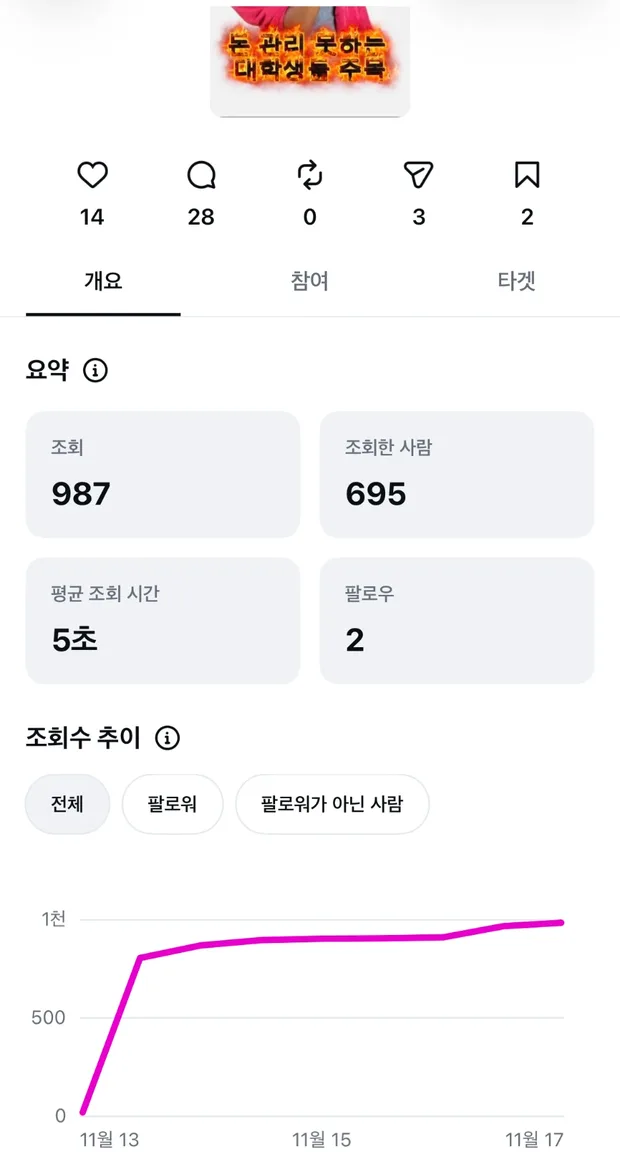
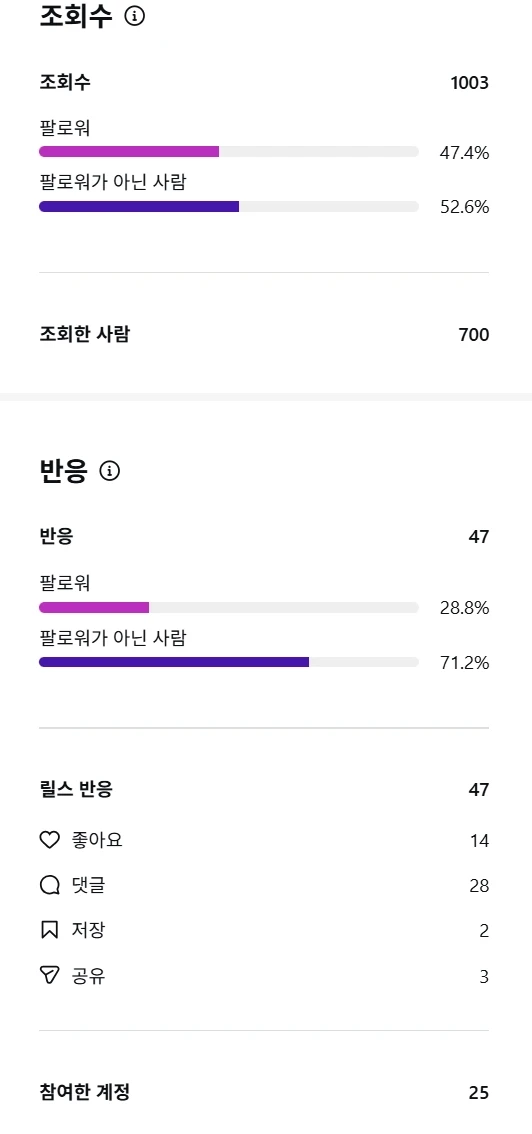
[DOCS] 발표 자료 홍보 결과를 11/24 인사이트로 바꾸고, 릴스·스레드·디스콰이엇 실제 화면을 넣는다. 사이트 방문·로그인 숫자는 뺀다 -재훈

diff --git a/frontend/public/ppt/index.html b/frontend/public/ppt/index.html
@@ -281,7 +281,7 @@ ul.pts li::before{content:"";flex:none;width:12px;height:12px;border-radius:50%;
     <div class="num">3~4</div><div>핵심 MVP 기능 개발</div><div>소비, 목표, 투자, AI 코치 화면과 API 구현</div><div><span class="pill ok">완료</span></div>
     <div class="num">5~6</div><div>AI 금융 코칭 고도화, 안전 문구 설계</div><div>AI 답변 연결, 숫자·투자 권유 검사, 개인정보 가림, 횟수 제한</div><div><span class="pill ok">완료</span> <span class="why">문구 → 코드 검사로 강화</span></div>
     <div class="num">7~8</div><div>PWA 배포, 초기 사용자 테스트</div><div>11/10 mywave.day 공개, 152개 항목 점검, 테스터 피드백 반영</div><div><span class="pill ok">완료</span> <span class="why">공개 일정 지연 <span class="pill chk">확인</span></span></div>
-    <div class="num">9~10</div><div>1차 홍보, 사용자 확보 (목표 1,000명)</div><div>릴스 조회 987, 스레드 조회 46, 사이트 방문 약 78명, 로그인 7명</div><div><span class="pill no">미달</span> <span class="why">홍보 기간 부족, 가입 전환 낮음 <span class="pill chk">확인</span></span></div>
+    <div class="num">9~10</div><div>1차 홍보, 사용자 확보 (목표 1,000명)</div><div>릴스 조회 1,003 (700명), 스레드 조회 181 (138명), 디스콰이엇 프로덕트 등록</div><div><span class="pill no">미달</span> <span class="why">홍보 기간 부족</span></div>
     <div class="num">11~12</div><div>텀블벅 펀딩 준비, 수익화 검증</div><div>진행하지 않음. 익명 설문으로 사용자 의견 수집</div><div><span class="pill no">변경</span> <span class="why">지도교수 의견 반영 <span class="pill chk">확인</span></span></div>
     <div class="num">13~14</div><div>사용자 피드백 기반 기능 개선</div><div>설문 운영(11/16~), 로그인 전 소개 보기, 첫 사용 안내 추가</div><div><span class="pill mid">진행 중</span></div>
     <div class="num">15~16</div><div>최종 성과 분석, 발표</div><div>최종 발표, 결과 보고서 작성</div><div><span class="pill mid">진행 중</span></div>
@@ -311,31 +311,30 @@ ul.pts li::before{content:"";flex:none;width:12px;height:12px;border-radius:50%;
   </div>
 </section>
 
-<section class="slide" data-t="55" data-pose="surprise" data-note="홍보 결과. 왼쪽은 실제 인사이트 화면, 오른쪽은 같은 숫자. 릴스는 조회 987회였지만 평균 조회 시간 5초. 스레드는 링크 클릭 0회. 사이트 방문자 중 로그인한 사람은 약 9%. 조회는 나왔지만 가입으로 이어지지 않았다고 정리.">
+<section class="slide" data-t="55" data-pose="surprise" data-note="홍보 결과. 왼쪽 세 장은 실제 인사이트 화면과 실제로 올린 글. 릴스는 조회 1,003회, 700명이 봤고 댓글이 28개. 스레드는 181회 조회됐는데 본 사람의 60%가 25~34세였고 대학생 나이대(18~24세)는 6%였음. 디스콰이엇에는 프로덕트 승인을 받아 소개 글을 올림.">
   <div class="eb in">09</div>
   <h2 class="in" style="--i:1;margin-bottom:10px">홍보 결과</h2>
-  <div class="cols" style="grid-template-columns:206px 206px 1fr;gap:18px;align-items:start">
-    <div class="ph in" style="--i:2"><div class="shot" style="width:200px;height:376px"><img src="img/shot-reel-insight.webp" alt="인스타그램 릴스 인사이트 실제 화면. 조회 987, 조회한 사람 695, 평균 조회 시간 5초, 팔로우 2."></div><span class="real">릴스 인사이트 · 실제 화면</span></div>
-    <div class="ph in" style="--i:3"><div class="shot" style="width:200px;height:376px"><img src="img/shot-thread-insight.webp" alt="스레드 게시물 인사이트 실제 화면. 조회수 46, 조회한 사람 36, 프로필 방문 0, 링크 클릭 0."></div><span class="real">스레드 인사이트 · 실제 화면</span></div>
-    <div class="glass in" style="--i:4;padding:14px 20px;display:flex;flex-direction:column;gap:8px">
-      <h3 style="font-size:21px">인스타그램 릴스 <span class="small" style="font-size:15px">11/13 게시, 평균 조회 시간 5초</span></h3>
-      <div class="fun tight"><div class="frow"><span>조회</span><div class="bar"><i data-w="100"></i></div><b data-count="987">987</b></div>
-      <div class="frow"><span>조회한 사람</span><div class="bar"><i data-w="70.4"></i></div><b data-count="695">695</b></div>
-      <div class="frow"><span>반응</span><div class="bar"><i data-w="4.8"></i></div><b>47</b></div>
-      <div class="frow"><span>팔로우</span><div class="bar"><i class="warn" data-w="0.2"></i></div><b>2</b></div></div>
-      <h3 style="font-size:21px;margin-top:4px">스레드 <span class="small" style="font-size:15px">프로필 방문 0, 팔로우 0</span></h3>
-      <div class="fun tight"><div class="frow"><span>조회</span><div class="bar"><i data-w="100"></i></div><b>46</b></div>
-      <div class="frow"><span>조회한 사람</span><div class="bar"><i data-w="78.3"></i></div><b>36</b></div>
-      <div class="frow"><span>링크 클릭</span><div class="bar"><i class="warn" data-w="0"></i></div><b>0</b></div></div>
-      <h3 style="font-size:21px;margin-top:4px">사이트 mywave.day <span class="small" style="font-size:15px">공개 후 5일</span> <span class="pill chk">최신 수치 확인</span></h3>
-      <div class="fun tight"><div class="frow"><span>방문</span><div class="bar"><i data-w="100"></i></div><b>약 78</b></div>
-      <div class="frow"><span>로그인</span><div class="bar"><i class="warn" data-w="9"></i></div><b>7</b></div></div>
-      <p class="note" style="font-size:15px">릴스 반응 47 = 댓글 28, 좋아요 14, 공유 3, 저장 2</p>
+  <div class="cols" style="grid-template-columns:188px 232px 232px 1fr;gap:16px;align-items:start">
+    <div class="ph in" style="--i:2"><div class="shot" style="width:182px;height:388px"><img src="img/shot-reel-insight.webp" alt="인스타그램 릴스 인사이트 실제 화면. 조회 1,003, 조회한 사람 700, 반응 47(좋아요 14, 댓글 28, 저장 2, 공유 3), 참여한 계정 25."></div><span class="real">릴스 인사이트 · 실제 화면</span></div>
+    <div class="ph in" style="--i:3"><div class="shot" style="width:226px;height:388px"><img src="img/shot-thread-insight.webp" alt="스레드 인사이트 실제 화면. 조회수 181, 조회한 사람 138, 연령 25~34세 60.42%, 18~24세 6.25%."></div><span class="real">스레드 인사이트 · 실제 화면</span></div>
+    <div class="ph in" style="--i:4"><div class="shot" style="width:226px;height:305px"><img src="img/shot-disquiet-post.webp" alt="디스콰이엇에 올린 MyWave 소개 글 실제 화면."></div><span class="real">디스콰이엇 게시 글 · 실제 화면</span></div>
+    <div class="glass in" style="--i:5;padding:14px 18px;display:flex;flex-direction:column;gap:8px">
+      <h3 style="font-size:20px">인스타그램 릴스 <span class="small" style="font-size:14px">11/13 게시</span></h3>
+      <div class="fun tight"><div class="frow"><span>조회</span><div class="bar"><i data-w="100"></i></div><b data-count="1003">1,003</b></div>
+      <div class="frow"><span>조회한 사람</span><div class="bar"><i data-w="69.8"></i></div><b data-count="700">700</b></div>
+      <div class="frow"><span>반응</span><div class="bar"><i data-w="4.7"></i></div><b>47</b></div>
+      <div class="frow"><span>참여 계정</span><div class="bar"><i data-w="2.5"></i></div><b>25</b></div></div>
+      <h3 style="font-size:20px;margin-top:4px">스레드 <span class="small" style="font-size:14px">10/26 ~ 11/24</span></h3>
+      <div class="fun tight"><div class="frow"><span>조회</span><div class="bar"><i data-w="100"></i></div><b>181</b></div>
+      <div class="frow"><span>조회한 사람</span><div class="bar"><i data-w="76.2"></i></div><b>138</b></div>
+      <div class="frow"><span>25~34세</span><div class="bar"><i data-w="60.4"></i></div><b>60%</b></div>
+      <div class="frow"><span>18~24세</span><div class="bar"><i class="warn" data-w="6.3"></i></div><b>6%</b></div></div>
+      <p class="note" style="font-size:14px">릴스 반응 47 = 댓글 28, 좋아요 14, 공유 3, 저장 2<br>디스콰이엇(IT 메이커 커뮤니티) 프로덕트 승인 후 소개 글 게시</p>
     </div>
   </div>
 </section>
 
-<section class="slide" data-t="40" data-pose="point" data-note="사용자 피드백과 개선. 방문자 대부분이 로그인하지 않아서 이유를 묻는 익명 설문을 만들었고, 로그인 전에 소개를 볼 수 있게 했음. 설문 결과 숫자가 나오면 이 장에서 말함.">
+<section class="slide" data-t="40" data-pose="point" data-note="사용자 피드백과 개선. 써 본 사람과 안 써 본 사람의 이유를 묻는 익명 설문을 만들었고, 로그인 전에 소개를 볼 수 있게 했음. 설문 결과 숫자가 나오면 이 장에서 말함.">
   <div class="eb in">10</div>
   <h2 class="in" style="--i:1">사용자 피드백과 개선</h2>
   <div class="cols" style="grid-template-columns:.9fr 1.1fr">
@@ -358,7 +357,7 @@ ul.pts li::before{content:"";flex:none;width:12px;height:12px;border-radius:50%;
   <h2 class="in" style="--i:1">배운 점</h2>
   <div class="cols c3">
     <div class="glass in" style="--i:2"><div class="big" style="font-size:54px">5초</div><h3 style="margin:8px 0">홍보 영상 평균 조회 시간</h3><p class="small">조회 수는 나왔지만 끝까지 본 사람이 적었고 링크 클릭이 없었음. 앞부분에서 서비스 화면을 보여 줘야 함</p></div>
-    <div class="glass in" style="--i:3"><div class="big" style="font-size:54px">78명 중 7명</div><h3 style="margin:8px 0">방문자 중 로그인한 사람</h3><p class="small">방문자 대부분이 로그인 화면에서 나감. 가입 없이 써 볼 수 있는 방법이 필요함</p></div>
+    <div class="glass in" style="--i:3"><div class="big" style="font-size:54px">60%</div><h3 style="margin:8px 0">스레드 본 사람 중 25~34세</h3><p class="small">대학생 나이대(18~24세)는 6%뿐. 대상인 대학생에게 닿는 채널을 다시 골라야 함</p></div>
     <div class="glass in" style="--i:4"><div class="big" style="font-size:54px">152개</div><h3 style="margin:8px 0">AI 도구로 만든 검사 항목</h3><p class="small">AI에게 작업을 맡길 때는 결과를 다시 확인할 수 있는 검사를 함께 받아야 함. 수정 여부는 사람이 판단</p></div>
   </div>
 </section>
